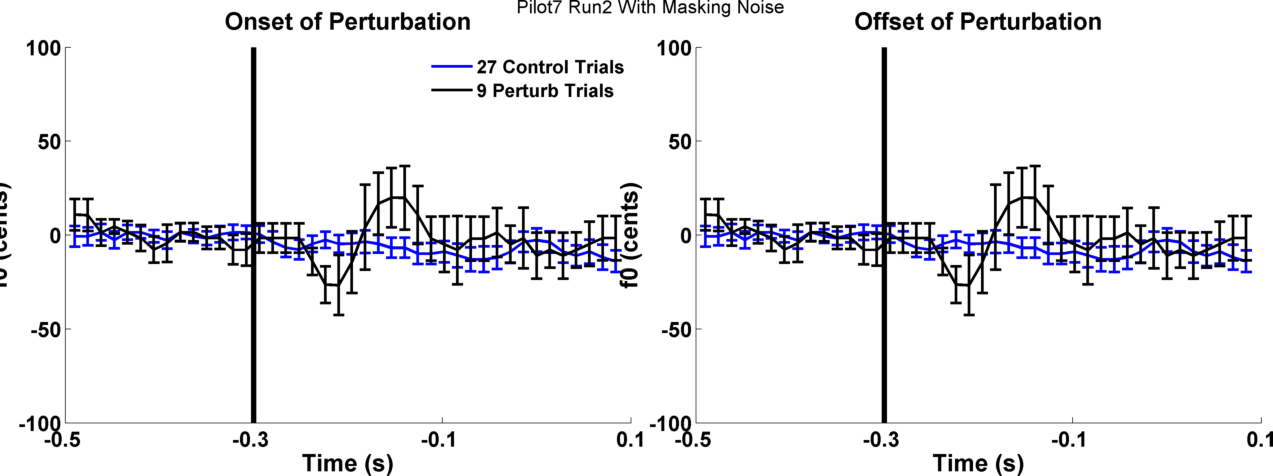
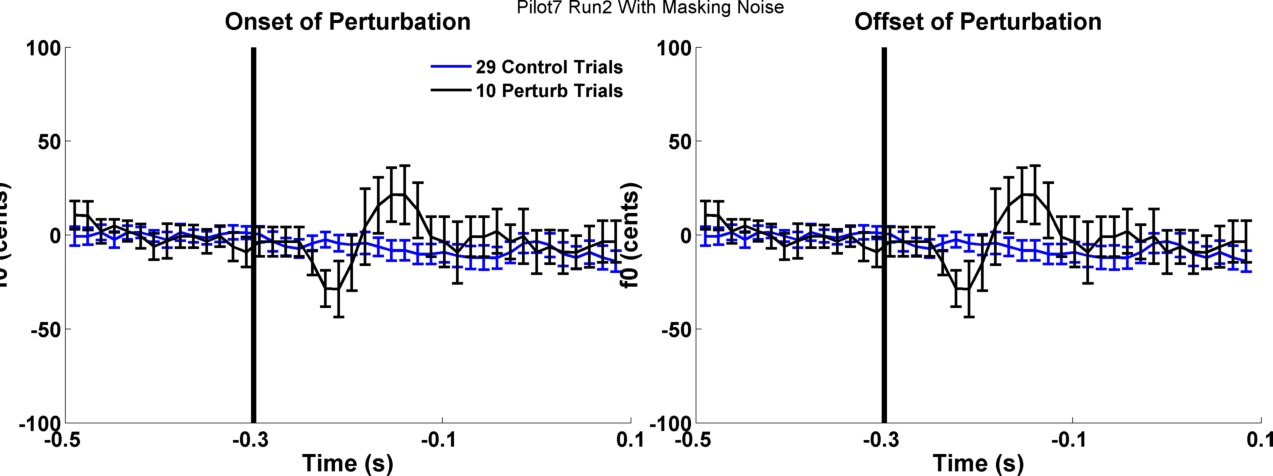
Futzed with preProcessing
working on making the preprocessing work a little bit better. Needs work
but at least no more NaN

diff --git a/Analysis/SFPerturb_Analysis.m b/Analysis/SFPerturb_Analysis.m
@@ -10,16 +10,16 @@ PltTgl.ForceSensor     = 0; %Voltage trace of force sensor signal
 PltTgl.IntraTrial_T    = 0; %SPL trace of individual trial
 PltTgl.IntraTrial_f0   = 0; %f0 trace of individual trial
 PltTgl.InterTrial_f0   = 1; %Average f0 trace over all trials of a run
-PltTgl.InterRun_f0     = 0; %Average f0 trace over all runs analyzed
+PltTgl.InterRun_f0     = 1; %Average f0 trace over all runs analyzed
 
 AVar.project      = 'Dissociating-Role-of-Feedback-in-Voice-Motor-Control';
 AVar.expTypes     = {'Somatosensory Perturbation_Perceptual', 'Auditory Perturbation_Perceptual'};
-AVar.expInd       = 1; %Either 1 or 2
+AVar.expInd       = 2; %Either 1 or 2
 AVar.curExp       = AVar.expTypes{AVar.expInd};
 AVar.participants = {'Pilot7'}; %List of multiple participants
 AVar.partiInd     = 1;          %Can select multiple subjs if desired.
 AVar.runs         = {'Run1', 'Run2', 'Run3', 'Run4'}; 
-AVar.runsInd      = [2];
+AVar.runsInd      = [3 4];
 AVar.curRecording = [];
 
 dirs = sfDirs(AVar.project, AVar.curExp);
@@ -94,8 +94,7 @@ for i = AVar.partiInd
             AVar.tStep      = AVar.tStepP/fs; %time step in seconds between the start of each window
             AVar.EvalSteps  = 1:AVar.tStepP:(AVar.totEveLenP-AVar.anaWinLenP); %Starting indices for each analysis window
             AVar.nEvalSteps = length(AVar.EvalSteps); %Number of analysis windows;
-            
-            
+                        
             AVar.anaInds(:,1) = AVar.EvalSteps;                       %Start indice for analysis based on EvalStep 
             AVar.anaInds(:,2) = AVar.EvalSteps + AVar.anaWinLenP - 1; %Stop indice for analysis based on EvalStep
             AVar.anaTimeVec   = mean(AVar.anaInds,2)/fs;              %Vector of time points roughly centered on start and stop points of analysis
@@ -208,28 +207,29 @@ head = headR((audProcDel+1):end);
 x = double(mic); 
 y = double(head);
 
-lenSig = length(x);
-t = 0:1/fs:(lenSig-1)/fs;
+pp.lenSig = length(x);
+pp.t = 0:1/fs:(pp.lenSig-1)/fs;
 
-thresh = 0.3;
+pp.thresh = 0.3;
 [B,A] = butter(4,40/(fs/2)); %Low-pass filter under 40
 
 %Envelope the signal removing all high frequncies. 
 %This shows the general change in amplitude over time. 
-xenv  = filter(B,A,abs(x));  
+pp.xenv  = filter(B,A,abs(x));  
 
 %The largest peak in the envelope theoretically occurs during voicing
-maxPeak = max(xenv); 
+pp.maxPeak = max(pp.xenv); 
 
 %I don't want to start my signal at the max value, so start lower down on
 %the envelope as a threshold
-threshIdx     = find(xenv > thresh*maxPeak); 
+pp.threshIdx     = find(pp.xenv > pp.thresh*pp.maxPeak); 
 
 %The first index of the theoretical useable signal (Voice onset)
-voiceOnsetInd = threshIdx(1);  
+pp.voiceOnsetInd = pp.threshIdx(1);  
 
 %The rest of the signal base the first index...are there any dead zones??
-chk4Break = sum(xenv(voiceOnsetInd:end) < thresh*maxPeak) > 0.05*fs;
+pp.fallOffLog = pp.xenv(pp.voiceOnsetInd:end) < pp.thresh*pp.maxPeak;
+pp.chk4Break = sum(pp.fallOffLog) > 0.3*fs; %Last longer than 300ms
 
 [B,A]    = butter(4,(2000)/(fs/2));
 filtx    = filtfilt(B,A,x); %Low-pass filtered under 2kHz
@@ -238,16 +238,19 @@ filty    = filtfilt(B,A,y); %Low-pass filtered under 2kHz
 micP     = filtx; %Take the whole signal for now
 headP    = filty; %Same indices as for mic 
 
-if t(voiceOnsetInd) > spanSt
+if pp.t(pp.voiceOnsetInd) > spanSt
     saveT = 0;  
     saveTmsg = 'Participant started too late!!';
-elseif chk4Break
+elseif pp.chk4Break
     saveT = 0;
     saveTmsg = 'Participant had a voice break!!';
 else
     saveT = 1;
     saveTmsg = 'Everything is good'; 
 end
+
+pp.saveT    = saveT;
+pp.SaveTmsg = saveTmsg;
 end
 
 function f0 = calcf0(x,fs)
